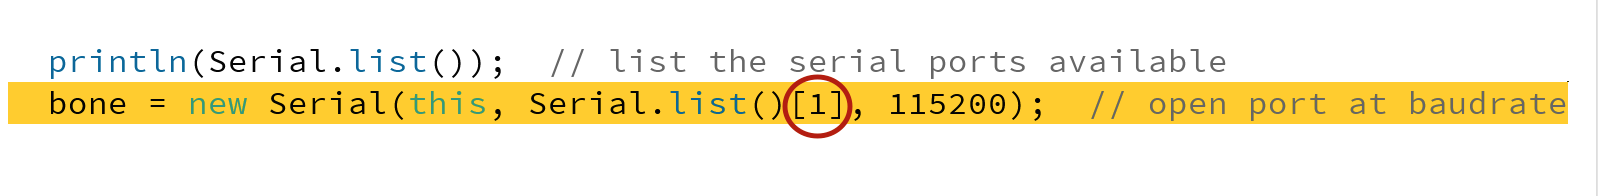
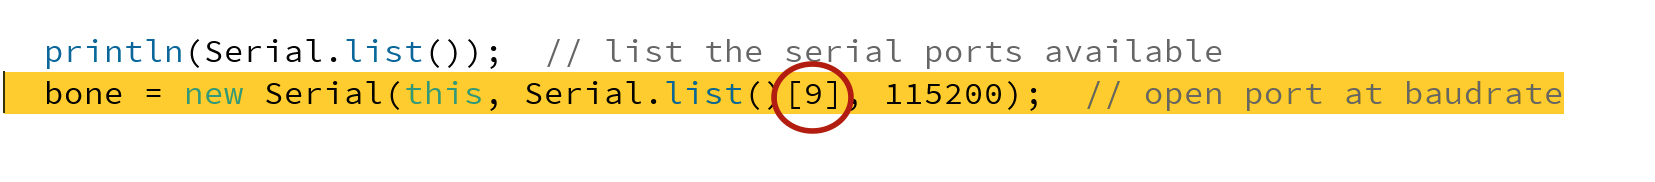
Image edit
changed the PortNumber.png to be clearer

Changed region(s): [[0.0, 0.2198, 0.9812, 0.7418]]

diff --git a/README.md b/README.md
@@ -37,9 +37,7 @@ It will open a window that looks like this
 
 ![image](images/HB-Open.png)
 
-Plug your Heart Bone into the USB cable. If you see a red LED light up, you know the battery is being charged. 
-**Make Sure The Heart Bone Is Awake** by pressing the wake button
-Then, launch the program by pressing the play button in Processing
+Plug your Heart Bone into the USB cable. If you see a red LED light up, you know the battery is being charged. **Make Sure The Heart Bone Is Awake** by pressing the wake button. Then, launch the program by pressing the play button in Processing
 
 ![playbutton](images/PlayButton.png)
 
@@ -50,11 +48,11 @@ This is where things get tedious, but it's a simple process. When you play the s
 ![image](images/SerialPortError.png)
 
 
-If this happens, take a look at the white on black text at the bottom of the window. There is a list of all available ports on your computer. The Heart Bone is among them. Look for the port calle 
+If this happens, take a look at the white on black text at the bottom of the Processing window. There is a list of all available ports on your computer and they all start with **/dev/...** The Heart Bone is among them. Look for the port called
 
 	/dev/tty.usbmodemXXXX
 	
-That is the port you want to connect to. Count the ports available starting from 0, and put that number in the highlighted code as shown below
+The **tty.usbmodem** is the port you want to connect to. Count the ports available starting from 0, and put that number in the highlighted code as shown below
 
 ![image](images/PortNumber.png)
 
